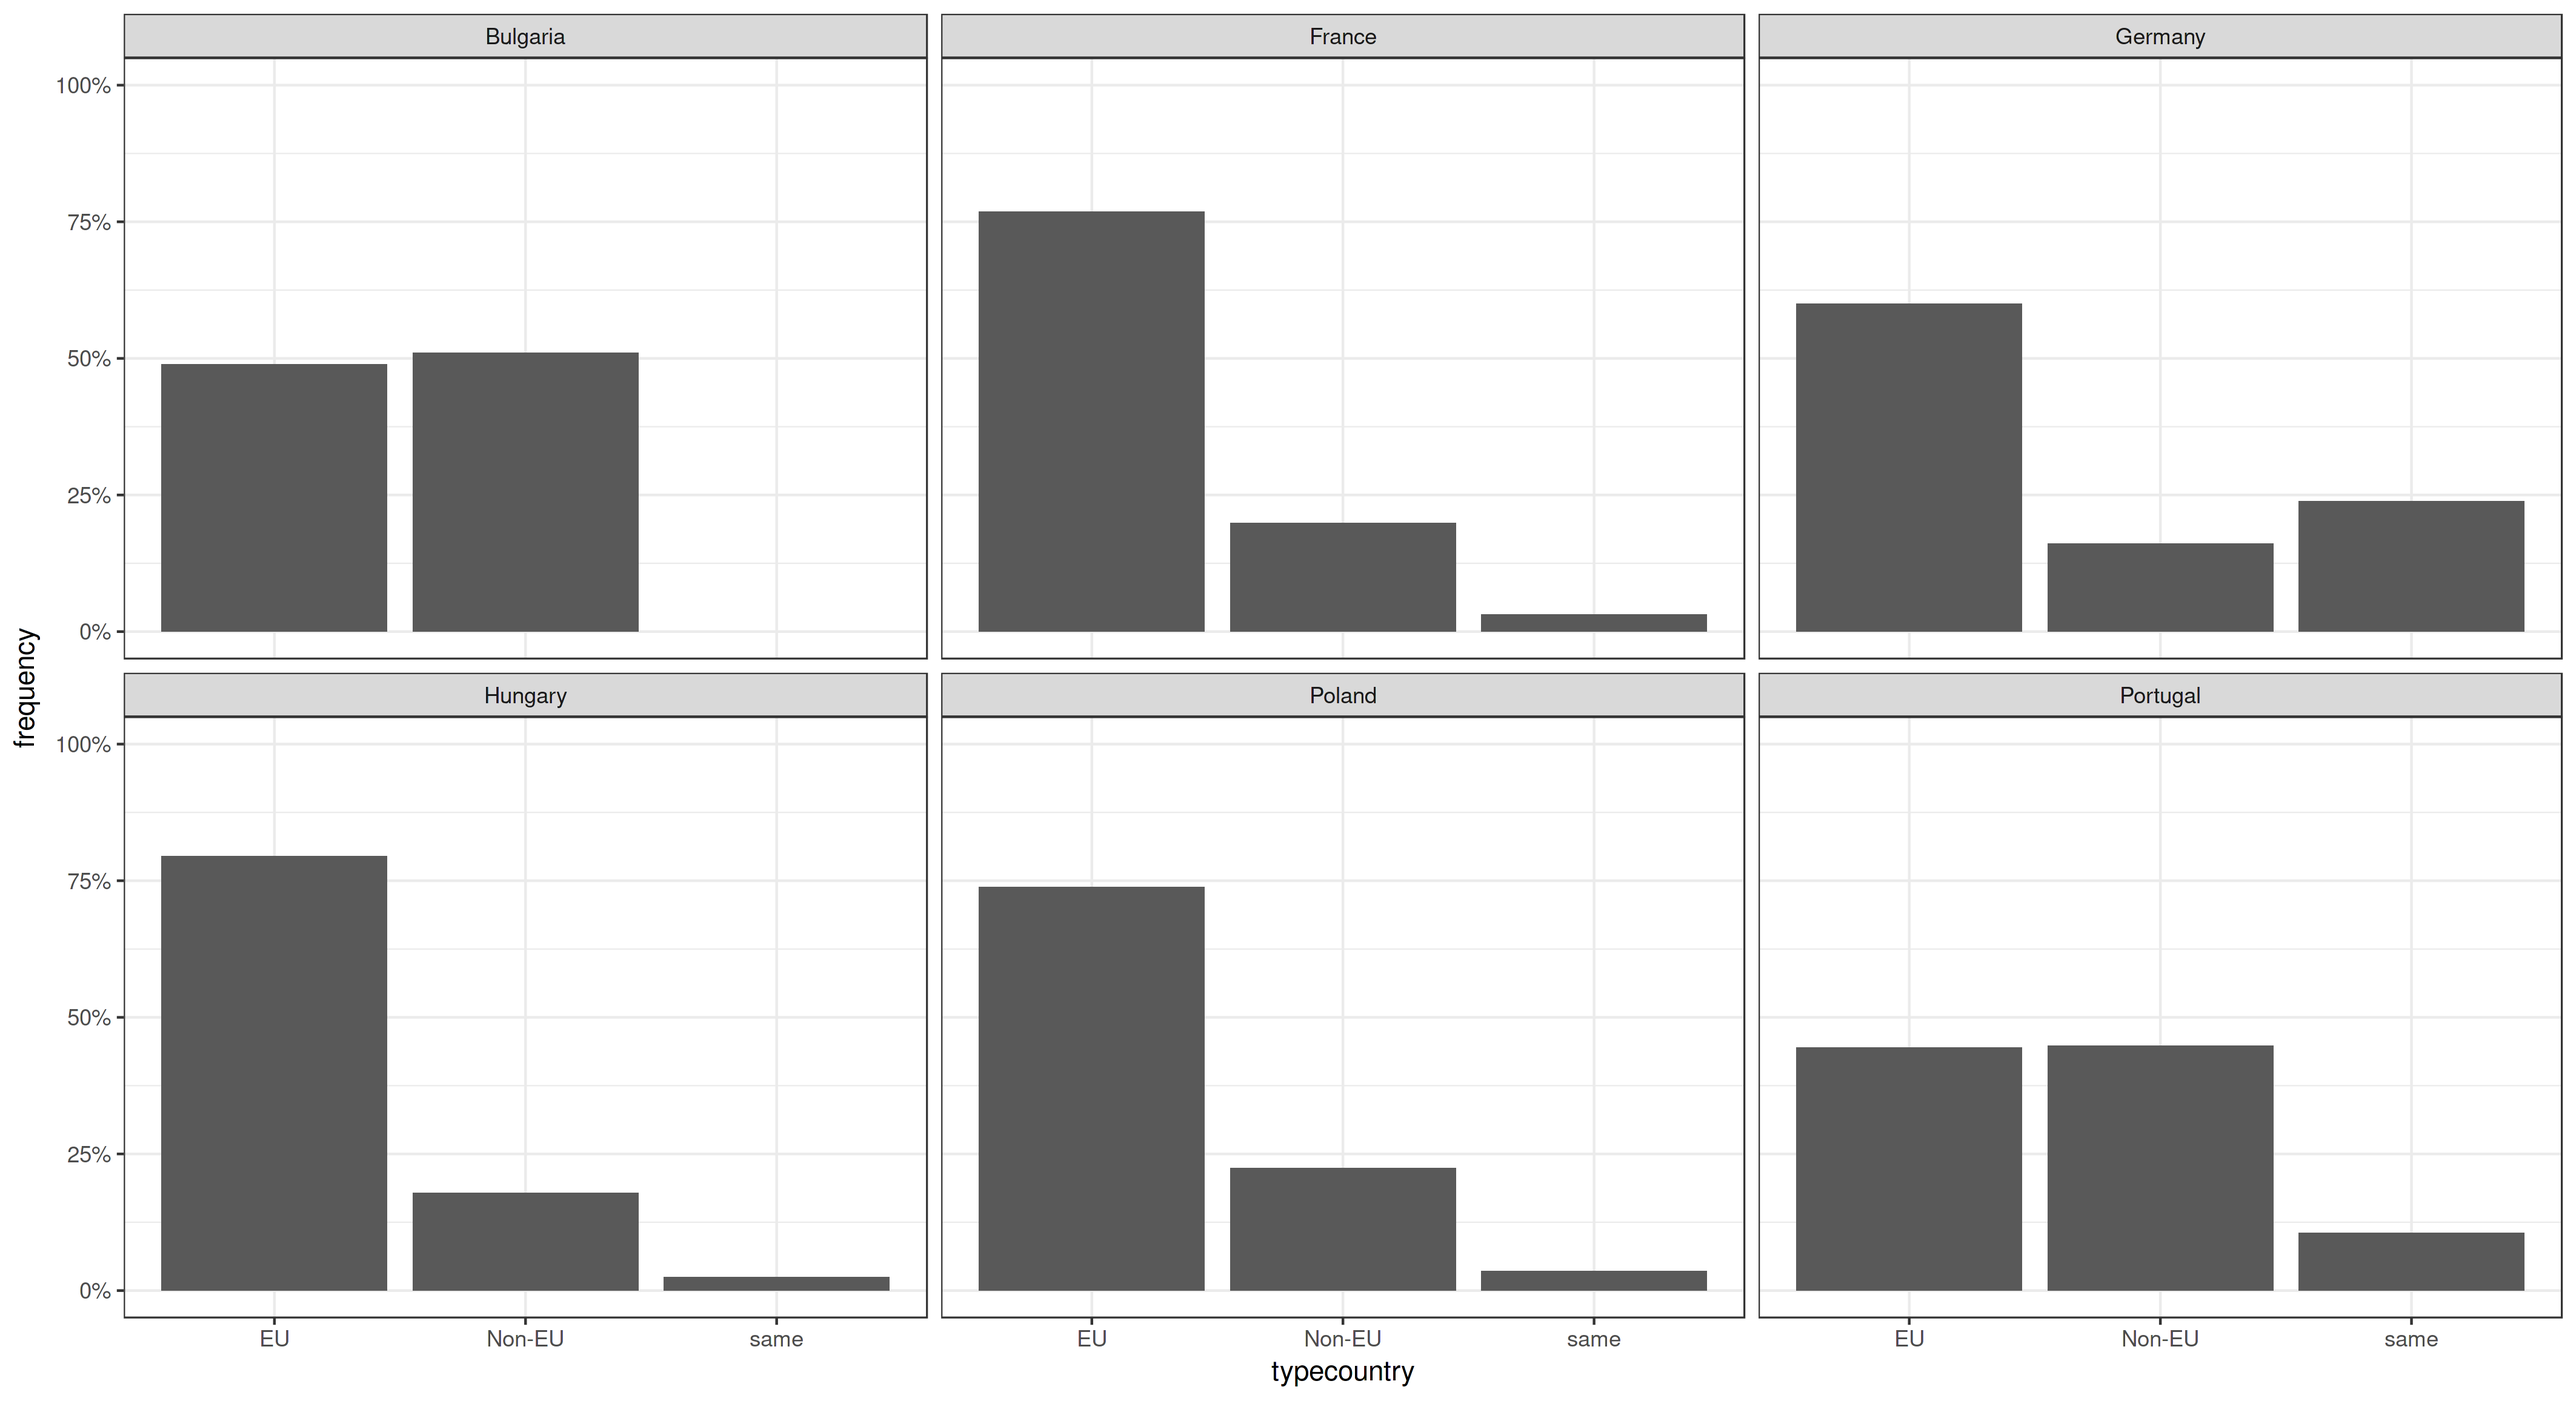
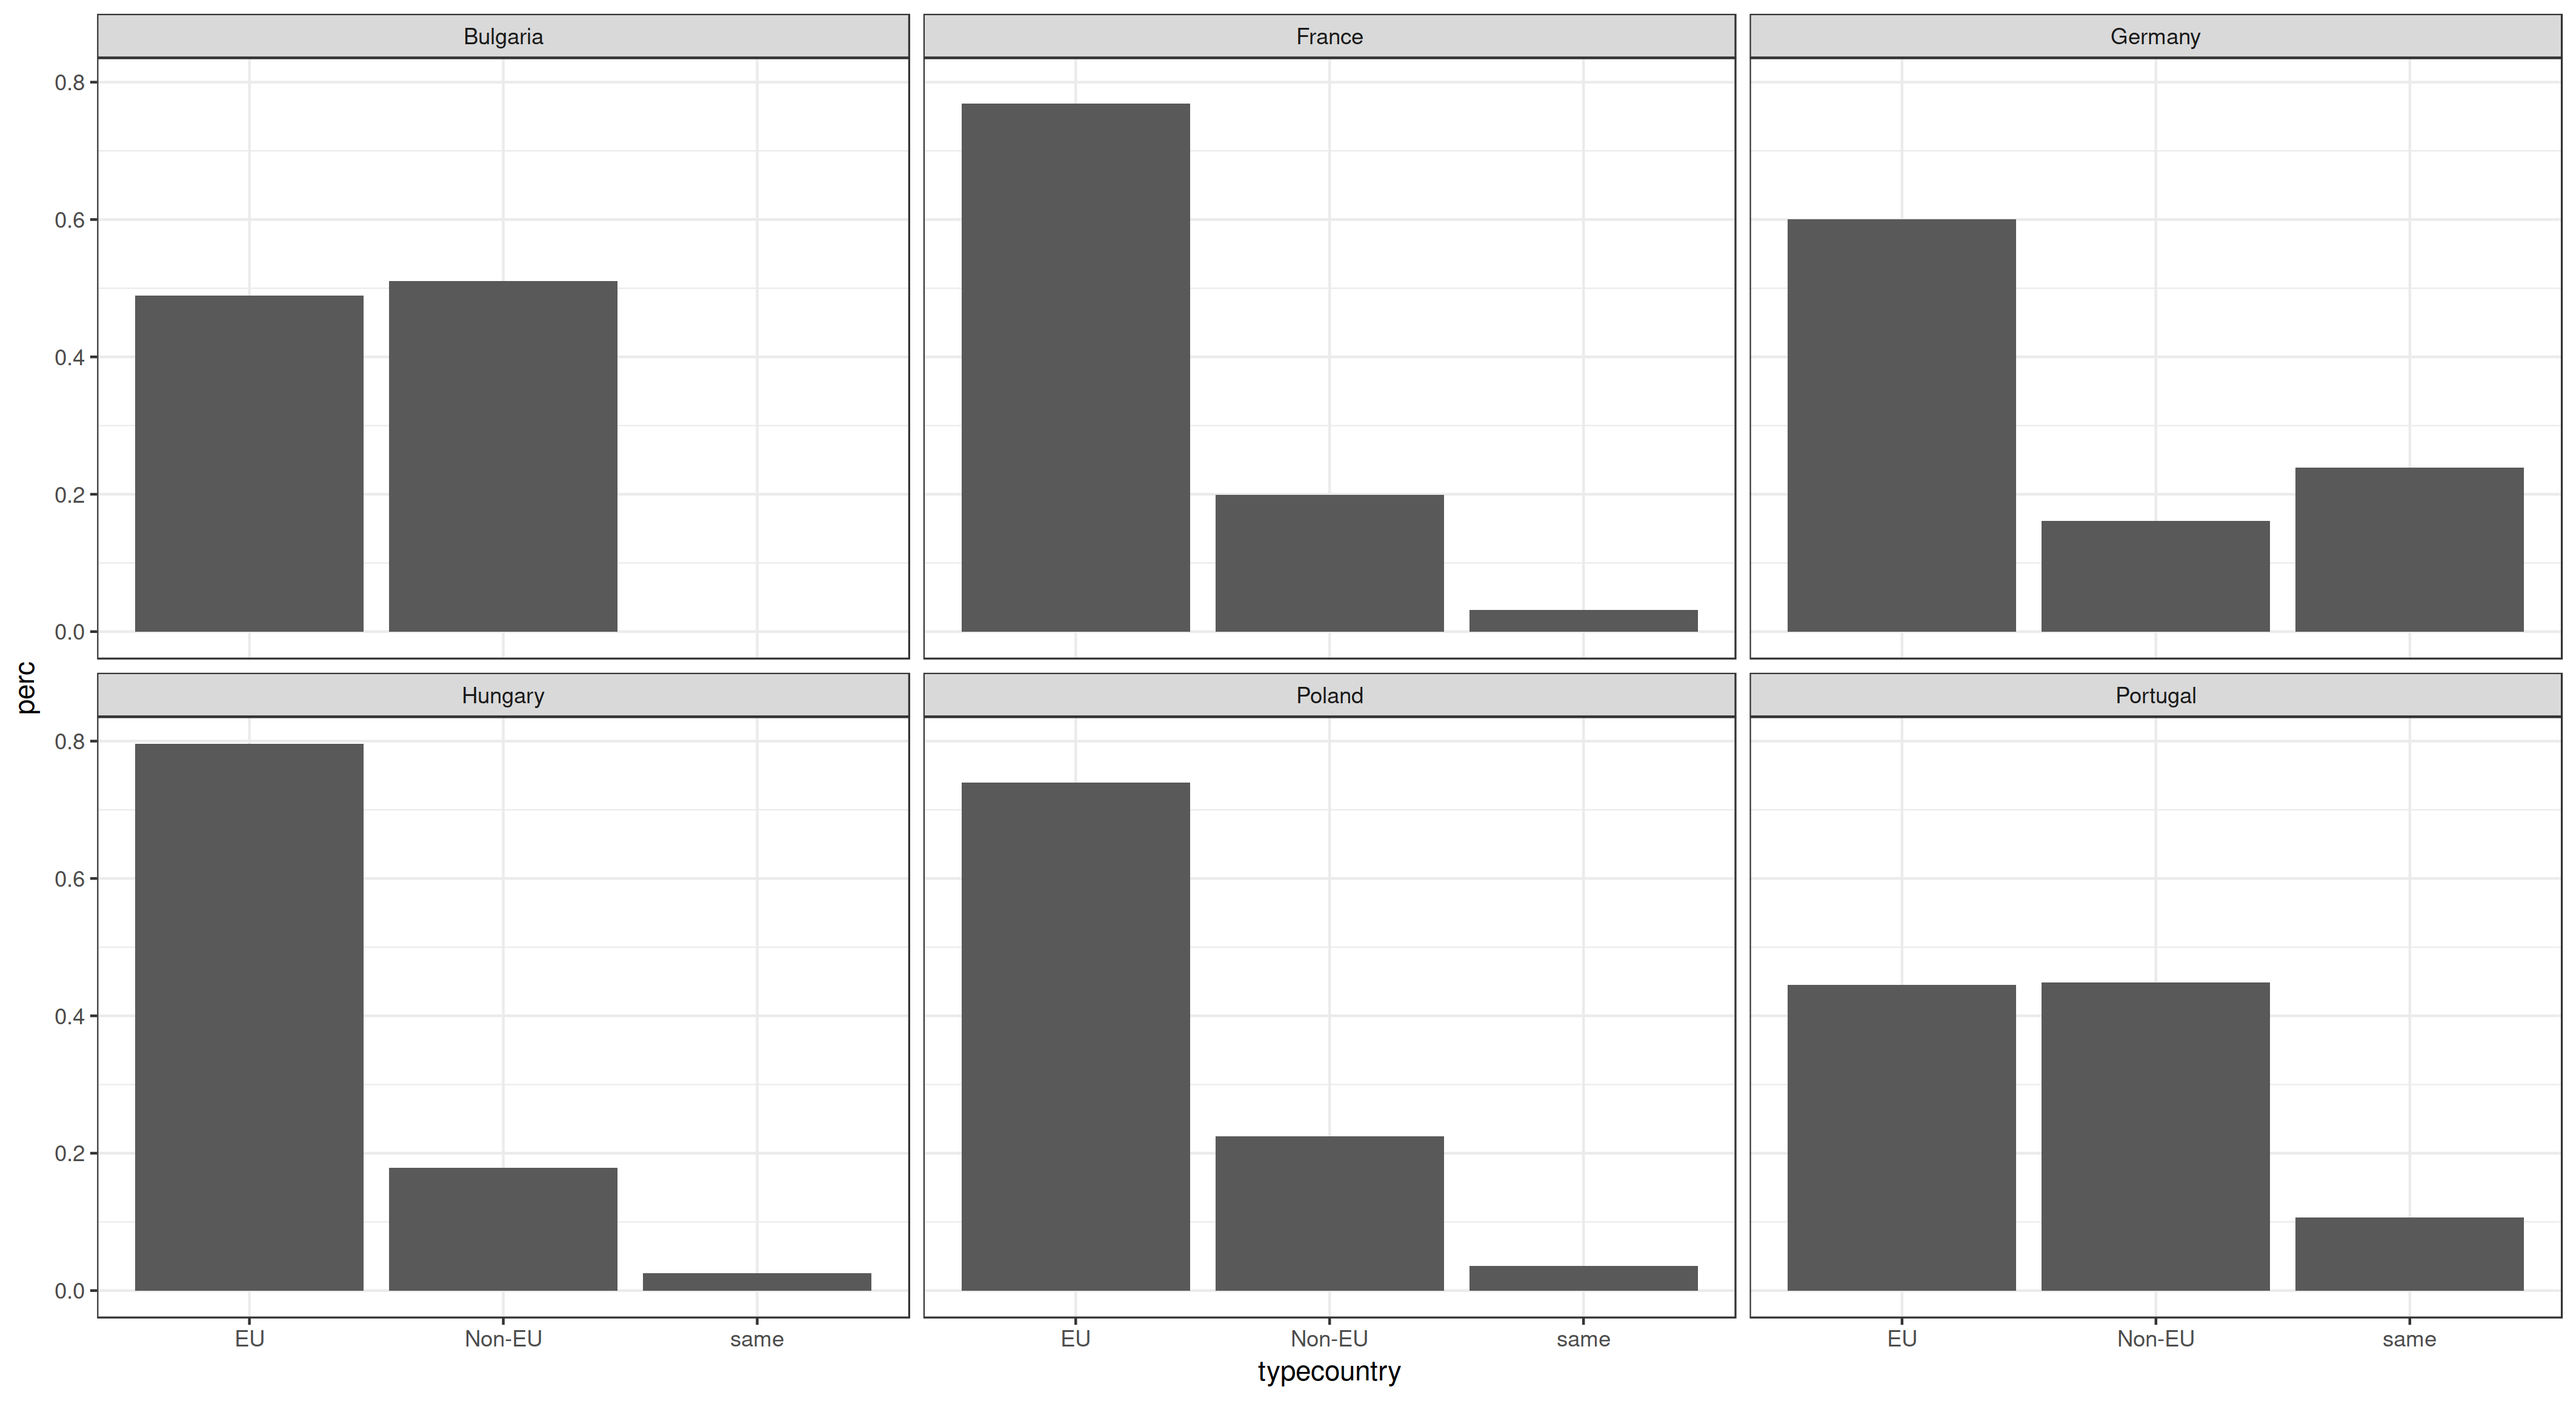
Quitando parte de los temas y actualizando plots

diff --git a/sistercities.md b/sistercities.md
@@ -394,20 +394,20 @@ We have only added the function `facet_wrap(~origincountry)` to the previous com
 
 ## Themes: changing static elements of the graphs
 
-Modifying the appearance of the graph is also one of the most frequent requirements. This can be achieved in ggplot2 with the use of `themes` which control things like fonts, ticks, panel strips, and backgrounds. ggplot2 comes with a number of built-in themes. The most important are `theme_grey()` (the default on), `theme_bw()`, `theme_dark()`, `theme_void()`, etc. Moreover the most important point is that you can easily create you own themes and use them in your plots. 
+Modifying the appearance of the graph is also one of the most frequent requirements. This can be achieved in ggplot2 with the use of `themes` which control things like fonts, ticks, panel strips, and backgrounds. ggplot2 comes with a number of built-in themes. The most important are `theme_grey()` (the default on), `theme_bw()`, `theme_dark()`, `theme_void()`, etc. Moreover you can easily create you own themes and use them in your plots. 
 
 ggplot2 uses per default `theme_grey()`.  It is very easy to use another theme. Using the last graph: 
 
 ```{r}
-p3 <- ggplot(eudata.perc.country, aes(x = typecountry, y = frequency)) +
+p3 <- ggplot(eudata.perc.country, aes(x = typecountry, y = perc)) +
     geom_bar(stat = "identity") +
-    scale_y_continuous(lim = c(0,1), labels = scales::percent_format()) +
     facet_wrap(~origincountry)
 
 p3 + theme_bw()
 ```
-
 ![plot14](images/plot14.png)
+
+As always, we add by using `+` a theme to our plot. 
 
 Even more: several packages add additional themes to ggplot2. You can for instance install [`ggthemes`](https://github.com/jrnold/ggthemes) where you will find themes such as `theme_excel` (a theme replicating the classic ugly gray charts in Excel), `theme_wsj` (a theme based on the plots in the *The Wall Street Journal*), etc. For instance using this last theme: 
 
@@ -417,34 +417,12 @@ library(ggthemes)
 
 p3 + theme_wsj()
 ```
-
 ![plot15](images/plot15.png)
 
 But more interesting is of course the possibility to modify yourself some aspects of the graph. There are two main possibilities: 
 
 1. create your own theme, taking for instance the code of the existing ones and modifying the concrete aspects you are interested in. The definition of the default themes can be found [here](https://github.com/tidyverse/ggplot2/blob/master/R/theme-defaults.r). 
-2. modify concrete aspects of the theme we are using. This is the approach we will follow here. 
-
-Modifying concrete aspects of a theme can be achieved by means of the function `theme()`. Unfortunately it is not possible in such a lesson to go into every single aspect which can be manipulated by using `theme()`. [Here](http://ggplot2.tidyverse.org/reference/theme.html) you can find how many different arguments can be used (and see some examples): panel.grid.major, panel.grid.minor, plot.background, legend.background, legend.margin, and many others. Relevant is however the fact that by using `theme()` actually we are modifying the default theme we are using.
-
-For instance, let say we want to put the legend of the previous scatterplot in the bottom of the graph. This can be achieved by means of the following code:
-
-```{r}
-p2 + theme(legend.position = "bottom")
-
-```
-![plot16](images/plot16.png)
-
-We could also for instance remove the lines of the grid in one of the previous bargraphs modifying the white/black-theme (`theme_light()`):
-
-```{r}
-p4 + theme_light() +
-    theme(panel.grid.major.x = element_blank(),
-          panel.grid.minor.x = element_blank())
-```
-
-![plot17](images/plot17.png)
-
+2. modify concrete aspects of the theme we are using. Unfortunately it is not possible in such a lesson to go into every single aspect which can be manipulated. [Here](http://ggplot2.tidyverse.org/reference/theme.html) you can find how many different arguments can be used (and see some examples): panel.grid.major, panel.grid.minor, plot.background, legend.background, legend.margin, and many others. 
 
 ## Extending ggplot2 with other geoms
 
